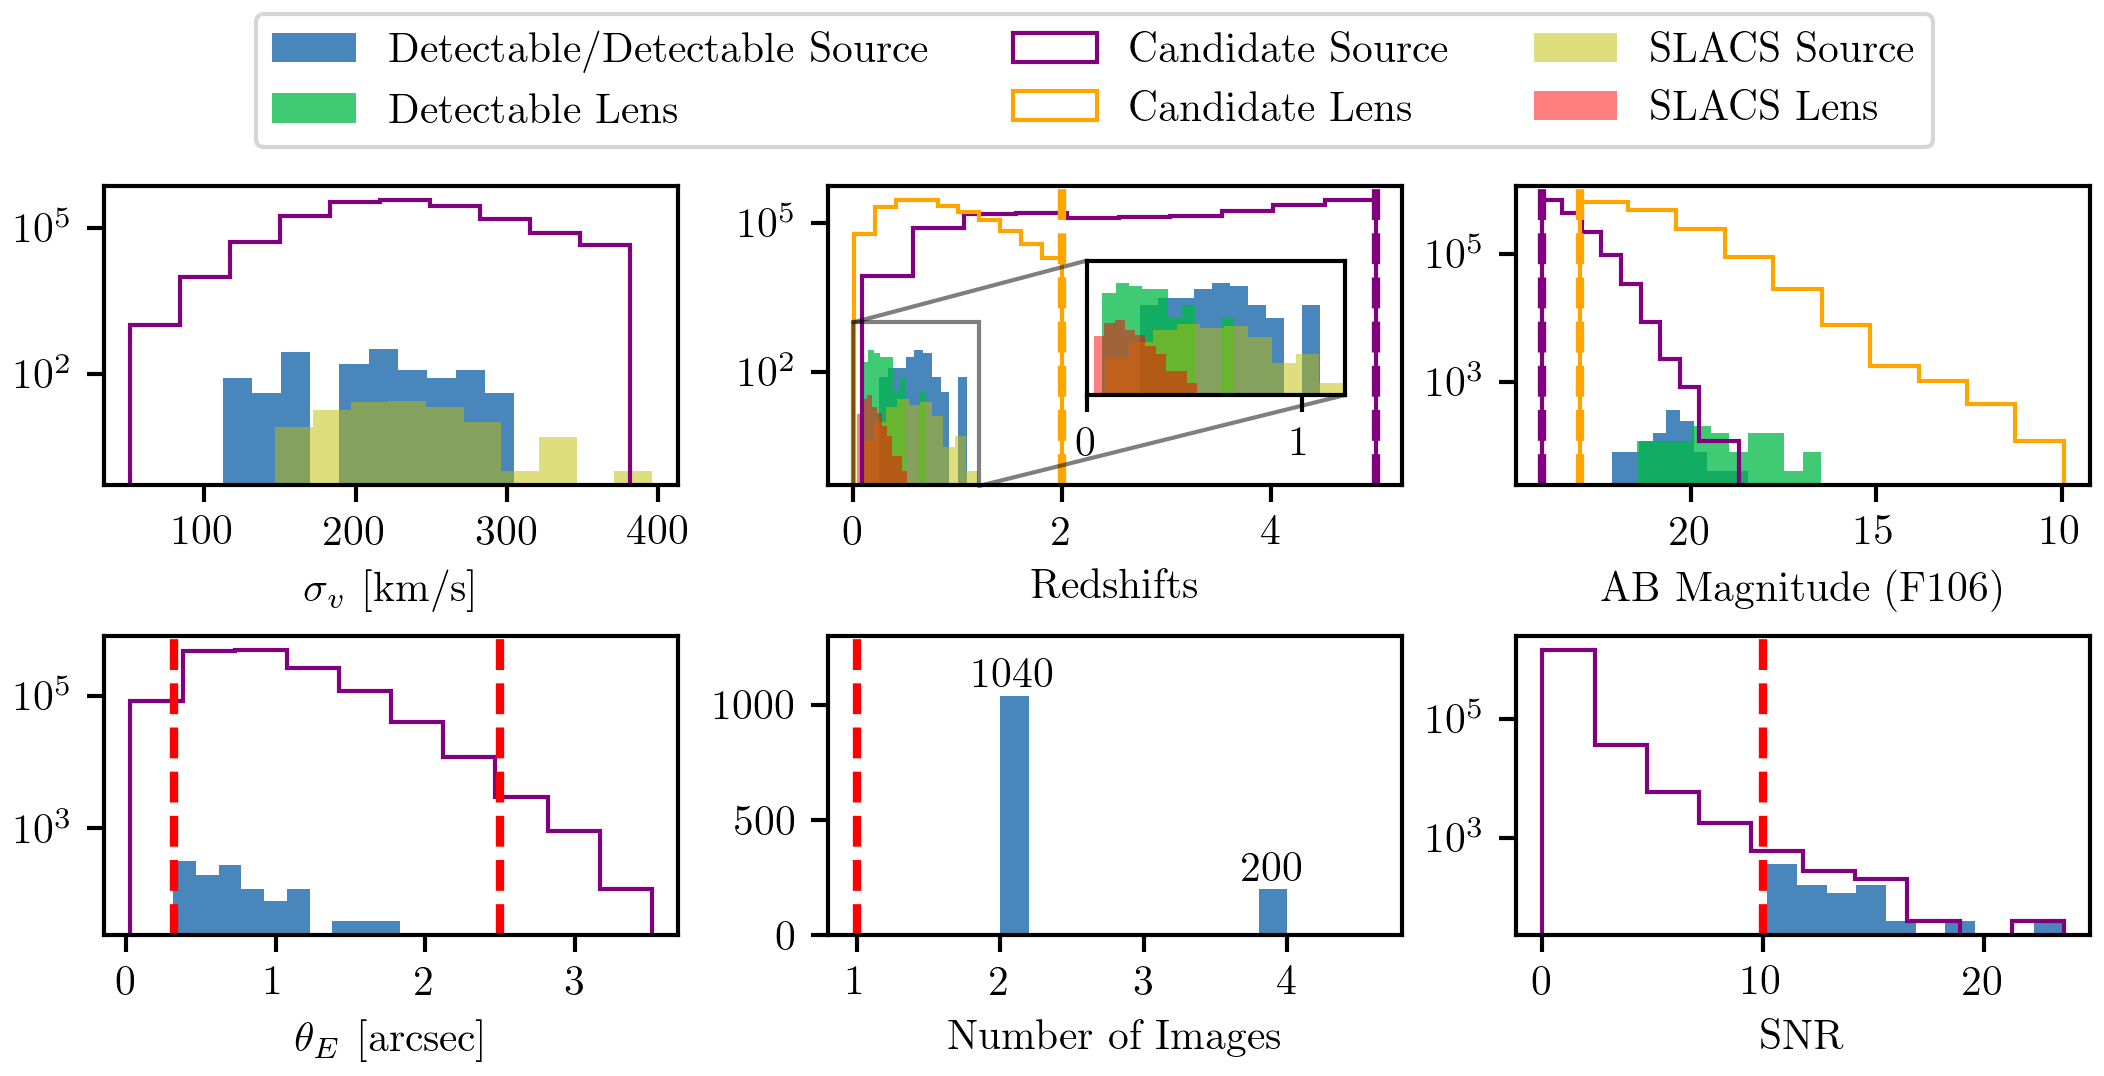
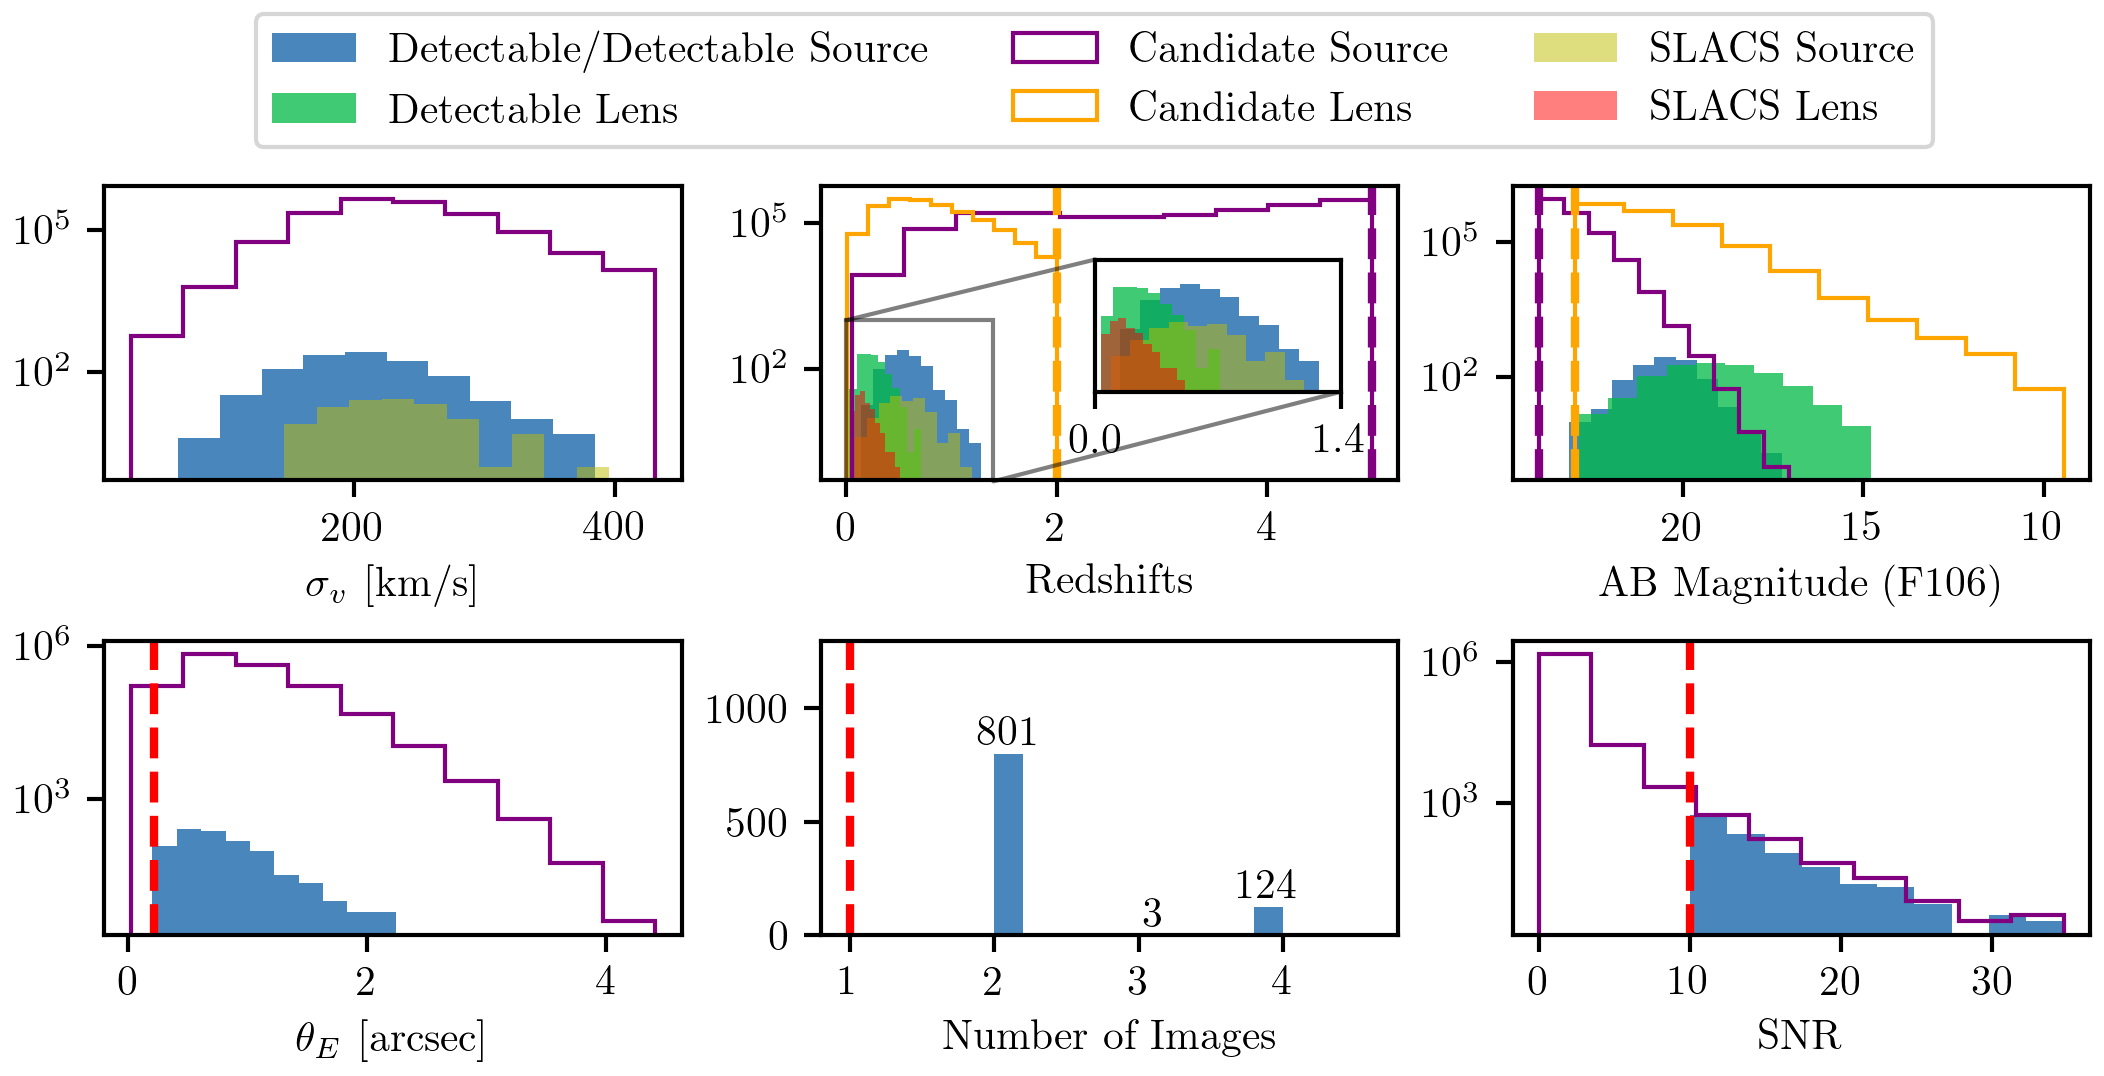
increase max image separation

diff --git a/scripts/execute_pipeline/00_hlwas_sim.py b/scripts/execute_pipeline/00_hlwas_sim.py
@@ -137,7 +137,7 @@ def run_slsim(tuple):
     # draw initial lens population
     kwargs_lens_cut = {
         'min_image_separation': 0.2,
-        'max_image_separation': 5,
+        'max_image_separation': 10,
         'mag_arc_limit': {'F106': 25},
     }
     lens_population = lens_pop.draw_population(kwargs_lens_cuts=kwargs_lens_cut)
